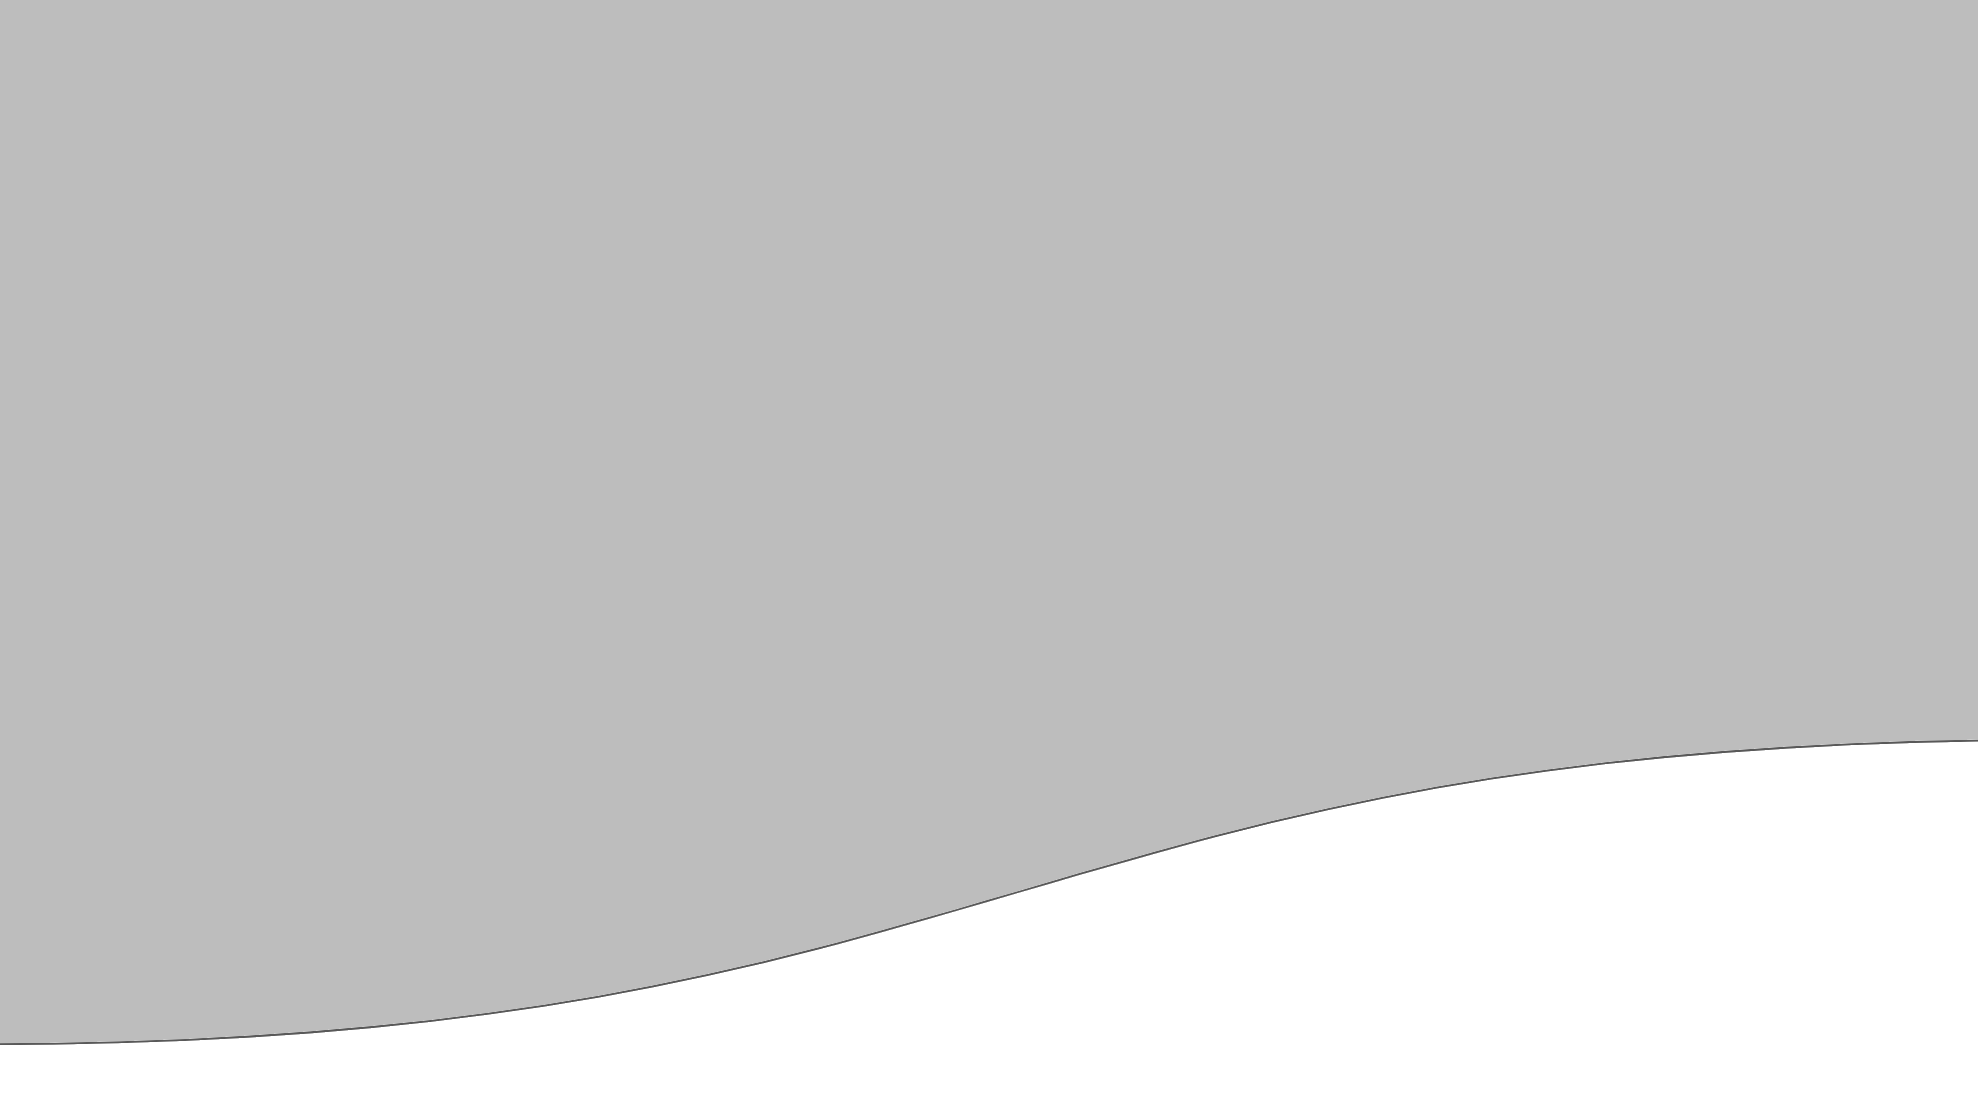
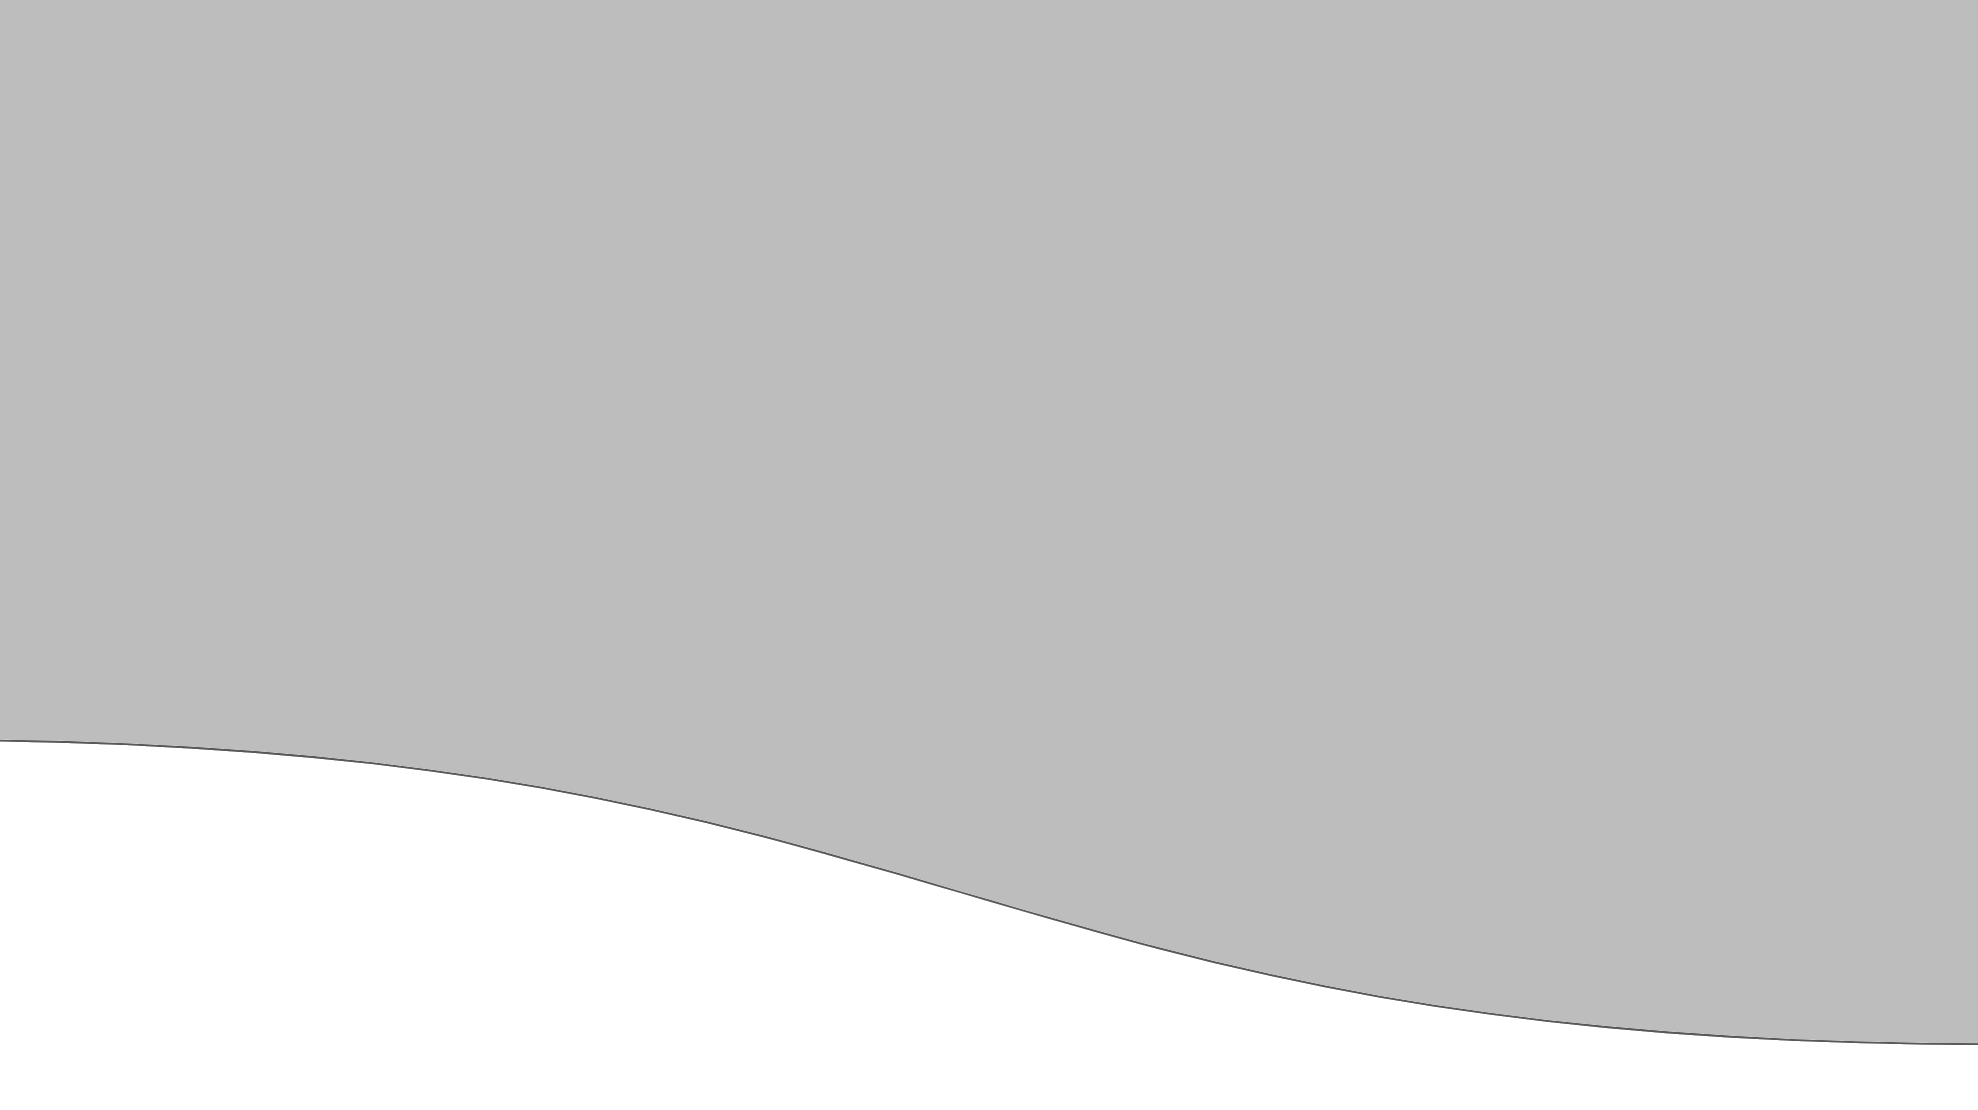
Curve

Changed region(s): [[0.0, 0.6432, 1.0, 0.9495]]

diff --git a/src/Components/Home/Hours.css b/src/Components/Home/Hours.css
@@ -1,14 +1,37 @@
 #hours-div {
   /* background-color: #0f60d1;  */
   background-color: #1c2e6a;
-  height: 115vh; 
+  height: 66vh; 
 }
 
-#hours-div-mandarin {
-  /* background-color: #0f60d1;  */
-  background-color: #1c2e6a;
-  height: 150vh; 
-} 
+section {
+  position: relative;
+  display: flex;
+  flex-direction: column;
+  align-items: center;
+  min-height: 135px;
+}
+
+/* Triangle */
+.tri {
+  position: absolute;
+  bottom: 0;
+  left: 0;
+  width: 100%;
+  overflow: hidden;
+  line-height: 0;
+}
+
+.tri svg {
+  position: relative;
+  display: block;
+  width: calc(100% + 1.3px);
+  height: 152px;
+}
+
+.tri .shape-fill {
+  fill: #bdbdbd;
+}
 
 /* Card stuff */ 
 .card-row-here {
@@ -297,7 +320,7 @@
 
   .paragraph-stuff {
     color: #000000; 
-    text-align: center; 
+    text-align: left; 
     font-weight: bold; 
   } 
 
@@ -305,12 +328,12 @@
     display: block; 
     color: #000000; 
     align-items: center; 
-    text-align: center; 
+    text-align: left; 
   } 
 
   #img-stuff { 
     float: left;
-    margin-right: 8vw; 
+    margin-left: 6vw; 
     margin-top: 46.5px; 
     width: auto; 
     height: 45vh; 
@@ -354,7 +377,7 @@
 
     #hours-div {
       /* background-color: #0f60d1;  */
-      height: 120vh !important; 
+      height: 67vh !important; 
     } 
 
     #img-stuff { 
@@ -368,7 +391,7 @@
     #hours-div {
       /* background-color: #0f60d1;  */
       background-color: #1c2e6a;
-      height: 120vh !important; 
+      height: 67vh !important; 
     } 
 
     #image-thing-home {
@@ -434,17 +457,12 @@
     #hours-div {
       /* background-color: #0f60d1;  */
       background-color: #1c2e6a;
-      height: 185vh !important; 
+      height: 107vh !important; 
     } 
 
     .sep {
       height: 10vh !important; 
     } 
-
-    #hours-div-mandarin {
-      /* background-color: #0f60d1;  */
-      height: 185vh; 
-    }
 
     .days-header {
       font-size: 15px; 
@@ -543,7 +561,7 @@
     #hours-div {
       /* background-color: #0f60d1;  */
       background-color: #1c2e6a;
-      height: 200vh !important; 
+      height: 107vh !important; 
     } 
 
     .days-header {

diff --git a/src/Components/Home/Hours.js b/src/Components/Home/Hours.js
@@ -18,9 +18,9 @@ function Hours() {
   Aos.init({}); 
 
     return (
+      
         <div id="hours-div"> 
-          <div id="space" /> 
-
+          <div id="space" />
           <div data-aos="fade-down" data-aos-duration="1000" className="card-row-here">
             <div className="the-good-card-pc">
               <Card className="the-card-good">
@@ -39,35 +39,20 @@ function Hours() {
                 <Visit /> 
               </Card> 
               </div> 
-              </div>  
-            </div> 
+            </div>  
+          </div> 
 
-            <div className="sep"/>
+            <section>
 
-            <div data-aos="fade-up" data-aos-duration="1000" className="card-row-here">
-            <div className="the-good-card-pc">
-              <Card className="the-card-good">
-                <Explore />
-                <Card.Img src={artist} variant="top" id="artist"/>
-              </Card> 
+                <div className="tri">
+                  <svg data-name="Layer 1" xmlns="http://www.w3.org/2000/svg" viewBox="0 0 1200 120" preserveAspectRatio="none">
+                    <path d="M600,112.77C268.63,112.77,0,65.52,0,7.23V120H1200V7.23C1200,65.52,931.37,112.77,600,112.77Z" class="shape-fill"></path>
+                  </svg>
+                </div>
 
-              
-              </div> 
-
-              {/* -------------------------------------------------------------------------------- */}
-              <div className="our-favorite-card"> 
-              <Card className="the-card-good">
-                <Card.Img src={artist} variant="top" id="image-thing-home"/>
-              </Card> 
-
-              <div className="the-good-card-mobile">
-              <Card className="the-card-good">
-                <Explore /> 
-              </Card> 
-              </div> 
-              </div>  
-            </div> 
-        </div>
+              </section>
+              </div>
+             
     );
   }
   

diff --git a/src/Components/Home/Curve-Mandarin.jsx b/src/Components/Home/Curve-Mandarin.jsx
@@ -12,27 +12,31 @@ import StuffMandarin from './Stuff-Mandarin';
 export default function CurveMandarin() {
 
     return (
-        <div id="curve-div">
-            <div data-aos="fade-right" data-aos-duration="1000" className="card-row-here">
-                <div className="the-good-card-pc">
-                <Card className="the-card-good">
-                    <Card.Img src={stuff} variant="top" id="img-stuff"/>
-                    <StuffMandarin />
-                </Card> 
+      <div id="curve-div">
+      <div id="space" />
+      <div data-aos="fade-up" data-aos-duration="1000" className="card-row-here">
+          <div className="the-good-card-pc">
+            <Card className="the-card-good">
+              <StuffMandarin />
+              <Card.Img style={{marginLeft: "50px"}} src={stuff} variant="top" id="img-stuff"/>
+            </Card> 
+
+            
             </div> 
 
+            {/* -------------------------------------------------------------------------------- */}
             <div className="our-favorite-card"> 
-              <Card className="the-card-good">
-                <Card.Img src={stuff} variant="top" id="image-thing-home-stuff"/>
-              </Card> 
+            <Card className="the-card-good">
+              <Card.Img src={stuff} variant="top" id="image-thing-home-stuff"/>
+            </Card> 
 
-              <div className="the-good-card-mobile">
-              <Card className="the-card-good">
-                <StuffMandarin /> 
-              </Card> 
-              </div> 
-              </div>  
-        </div>
-    </div>
+            <div className="the-good-card-mobile">
+            <Card className="the-card-good">
+              <StuffMandarin /> 
+            </Card> 
+            </div> 
+            </div>  
+          </div> 
+  </div>
     )
 }

diff --git a/src/Components/Home/Hours-Mandarin.js b/src/Components/Home/Hours-Mandarin.js
@@ -42,31 +42,16 @@ function HoursMandarin() {
           </div>  
         </div> 
 
-        <div className="sep"/>
+        <section>
 
-        <div data-aos="fade-up" data-aos-duration="1000" className="card-row-here">
-        <div className="the-good-card-pc">
-          <Card className="the-card-good">
-            <ExploreMandarin />
-            <Card.Img src={artist} variant="top" id="artist"/>
-          </Card> 
+                <div className="tri">
+                  <svg data-name="Layer 1" xmlns="http://www.w3.org/2000/svg" viewBox="0 0 1200 120" preserveAspectRatio="none">
+                    <path d="M600,112.77C268.63,112.77,0,65.52,0,7.23V120H1200V7.23C1200,65.52,931.37,112.77,600,112.77Z" class="shape-fill"></path>
+                  </svg>
+                </div>
 
-          
-          </div> 
+          </section>
 
-          {/* -------------------------------------------------------------------------------- */}
-          <div className="our-favorite-card"> 
-          <Card className="the-card-good">
-            <Card.Img src={artist} variant="top" id="image-thing-home"/>
-          </Card> 
-
-          <div className="the-good-card-mobile">
-          <Card className="the-card-good">
-            <ExploreMandarin /> 
-          </Card> 
-          </div> 
-          </div>  
-        </div> 
     </div>
     );
   }

diff --git a/src/Components/Home/Curve.jsx b/src/Components/Home/Curve.jsx
@@ -13,15 +13,18 @@ export default function Curve() {
 
     return (
         <div id="curve-div">
-            <div data-aos="fade-right" data-aos-duration="1000" className="card-row-here">
-                <div className="the-good-card-pc">
-                <Card className="the-card-good">
-                    <Card.Img src={stuff} variant="top" id="img-stuff"/>
-                    <Stuff />
-                </Card> 
-            </div> 
+        <div data-aos="fade-up" data-aos-duration="1000" className="card-row-here">
+            <div className="the-good-card-pc">
+              <Card className="the-card-good">
+                <Stuff />
+                <Card.Img src={stuff} variant="top" id="img-stuff"/>
+              </Card> 
 
-            <div className="our-favorite-card"> 
+              
+              </div> 
+
+              {/* -------------------------------------------------------------------------------- */}
+              <div className="our-favorite-card"> 
               <Card className="the-card-good">
                 <Card.Img src={stuff} variant="top" id="image-thing-home-stuff"/>
               </Card> 
@@ -32,7 +35,7 @@ export default function Curve() {
               </Card> 
               </div> 
               </div>  
-        </div>
+            </div> 
     </div>
     )
 }

diff --git a/src/Components/Home/Stuff.jsx b/src/Components/Home/Stuff.jsx
@@ -8,8 +8,8 @@ function Stuff() {
 
     return (
         <div id="stuff"> 
-          <h1 style={{textAlign:"left"}} className="sub-stuff">Check Out Our "Tchotchke Bin"</h1> 
-          <h3 style={{textAlign:"left"}} className="paragraph-stuff">
+          <h1 className="sub-stuff">Check Out Our "Tchotchke Bin"</h1> 
+          <h3 className="paragraph-stuff">
               From excentric frames to timely photo prints, we designed this area of the 
               gallery to allow you to find yourself a unique item (AKA "Tchotchke") that is 
               sure to dazzle your desires! The contents of the Tchotchke Bin are always 

diff --git a/src/Components/Home/Visit.jsx b/src/Components/Home/Visit.jsx
@@ -13,7 +13,7 @@ function Visit() {
               the schedule below, from 10:00 a.m. until 8:00 p.m. Sunday through Saturday. </h3> 
           <div className="the-hours-container"> 
                 {/* Change to "Recent Open Hours" when upcoming hours are not known */}
-                <h3 className="a-head">Upcoming Open Hours</h3> 
+                <h3 className="a-head">Recent Open Hours</h3> 
                 <div className="days">
                   <h2 className="days-header"> 
                   Friday, July 15th: <br /> 

diff --git a/src/App.js b/src/App.js
@@ -316,7 +316,7 @@ const App = () => {
             <Route path="/contact-us-mandarin" component={ContactMandarin} /> 
 
         </Switch>
-      <ScrollButton /> 
+      {/* <ScrollButton />  */}
       <Copyright />
     </HashRouter>
     </>

diff --git a/src/Components/Home/Landing.jsx b/src/Components/Home/Landing.jsx
@@ -1,4 +1,4 @@
-import React, { useEffect, useState } from "react";
+import React from "react";
 import "./Home.css"; 
 import Aos from 'aos'; 
 import 'aos/dist/aos.css'; 
